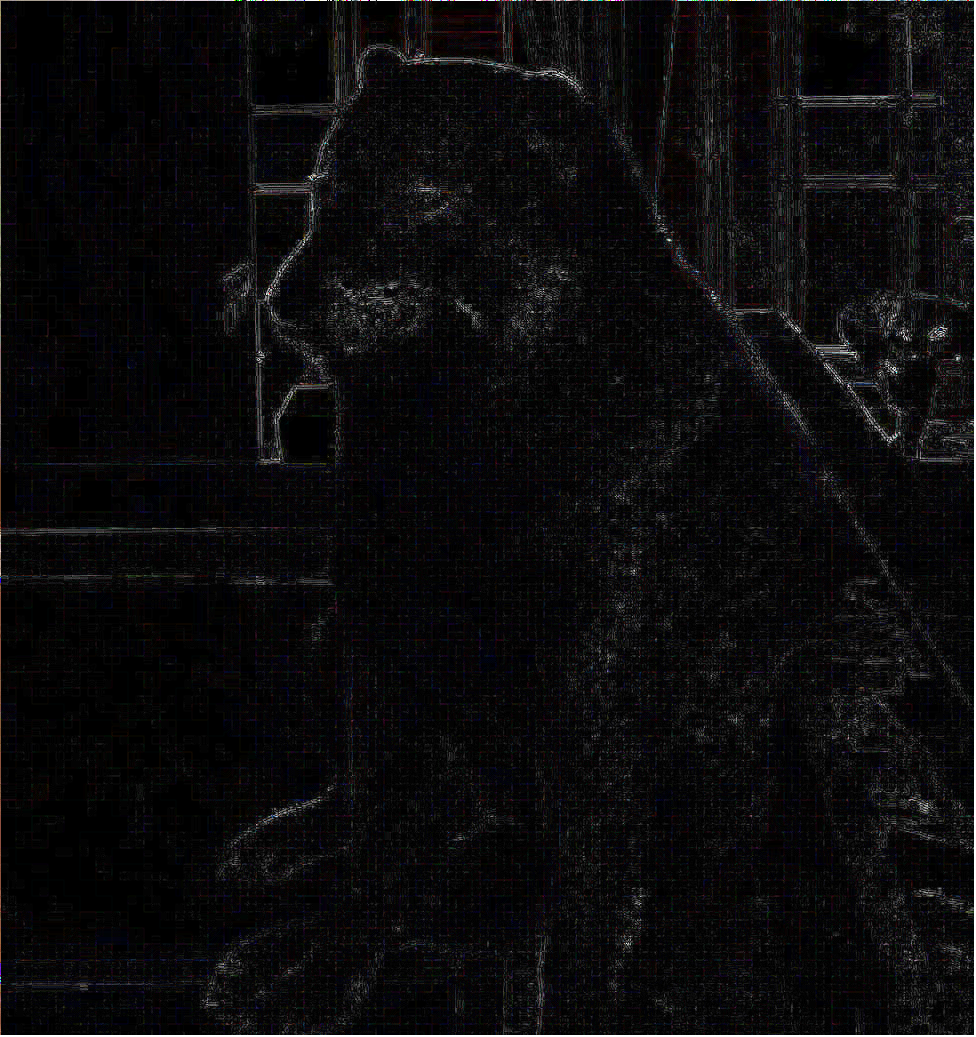
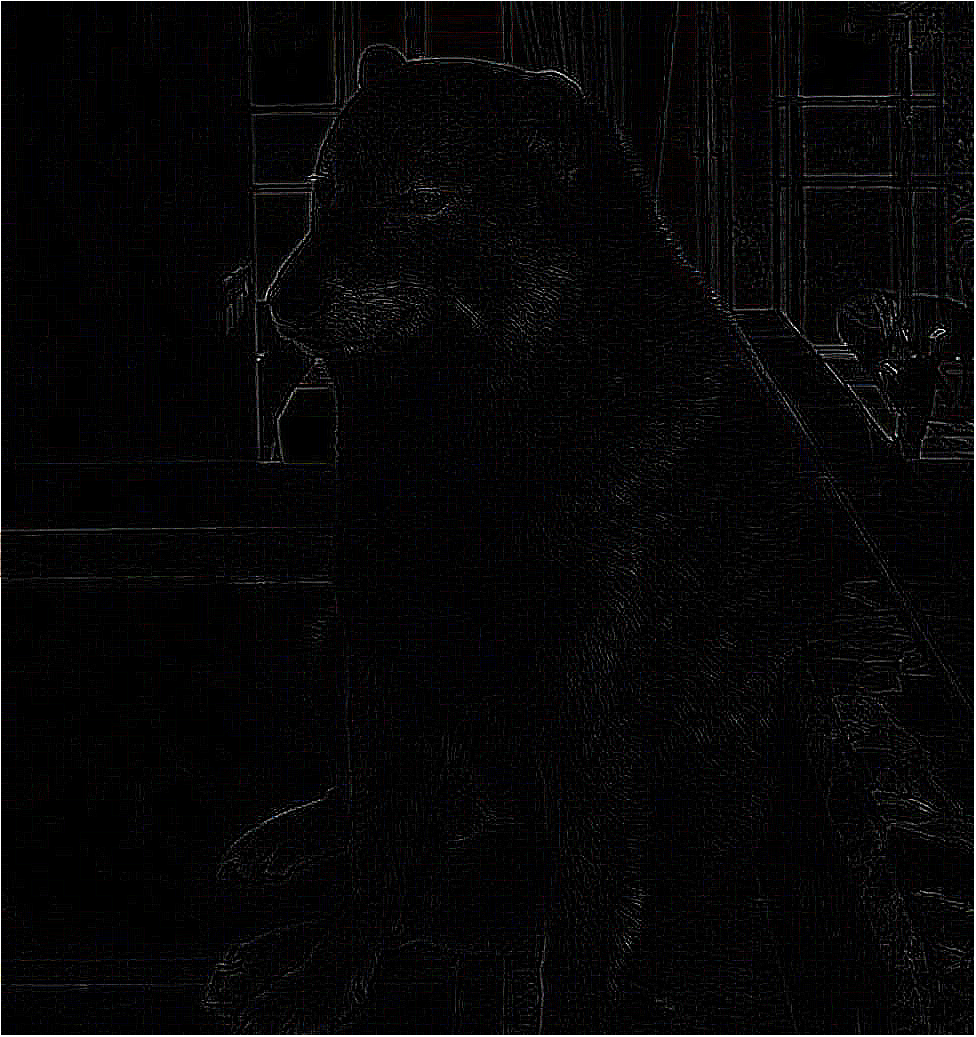
Remove clamp func

diff --git a/imago/conv.go b/imago/conv.go
@@ -76,9 +76,9 @@ func conv(img *image.RGBA, kernel matrigo.Matrix, x, y int) color.Color {
 	}
 
 	c := color.RGBA{
-		R: clamp(rSum, 255),
-		G: clamp(gSum, 255),
-		B: clamp(bSum, 255),
+		R: uint8(math.Min(255, math.Max(0, rSum))),
+		G: uint8(math.Min(255, math.Max(0, gSum))),
+		B: uint8(math.Min(255, math.Max(0, bSum))),
 		A: 255,
 	}
 
@@ -97,14 +97,4 @@ func rgba(img *image.RGBA, x, y int) (r uint8, g uint8, b uint8, a uint8) {
 	a = img.Pix[pixelPosition+3]
 
 	return
-}
-
-func clamp(val float64, max uint8) uint8 {
-	val = math.Abs(val)
-	switch {
-	case uint8(val) > max:
-		return max
-	default:
-		return uint8(val)
-	}
 }
